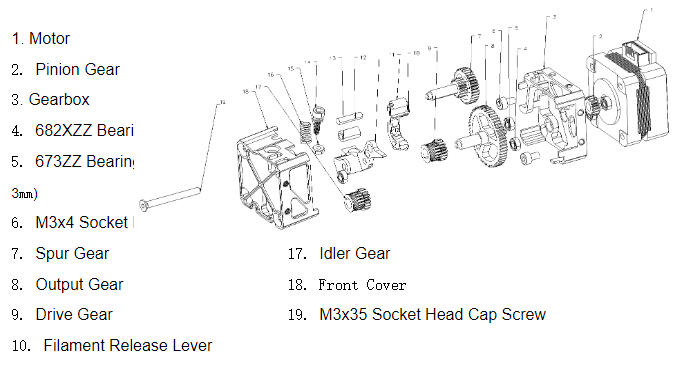
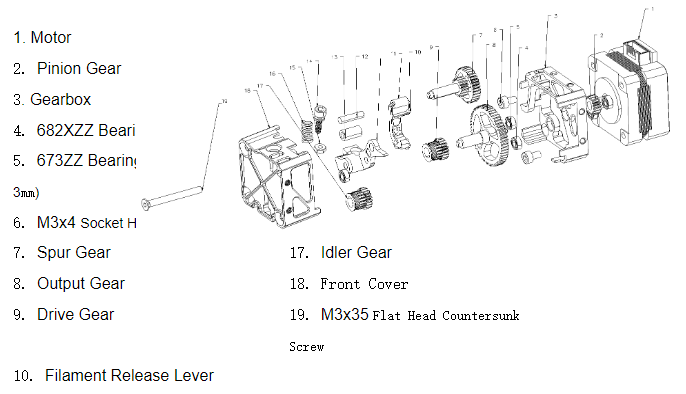
Deploying to gh-pages from @ bigtreetech/docs@27622524199451af74b1aba3dabe55d3b2305939 🚀

diff --git a/locales/zh_Hans/H2 V2X.html b/locales/zh_Hans/H2 V2X.html
@@ -3048,7 +3048,7 @@
 </table>
 <p><img src=img/H2V2X/H2V2X_Filament3.png width="600"/></p>
 <h2 id="_8"><strong>产品结构图</strong><a class="headerlink" href="#_8" title="Permanent link">&para;</a></h2>
-<p><img src=img/H2V2X/H2V2X_Filament4.png width="600"/></p>
+<p><img src=img/H2V2X/H2V2X_Filament5.png width="600"/></p>
 <h2 id="_9">相关链接<a class="headerlink" href="#_9" title="Permanent link">&para;</a></h2>
 <p>购买链接:</p>
 <p><a href="https://biqu.equipment/products/h2-v2x">https://biqu.equipment/products/h2-v2x</a></p>

diff --git a/zh/H2 V2X.html b/zh/H2 V2X.html
@@ -3157,7 +3157,7 @@
 </table>
 <p><img src=img/H2V2X/H2V2X_Filament3.png width="600"/></p>
 <h2 id="_8"><strong>产品结构图</strong><a class="headerlink" href="#_8" title="Permanent link">&para;</a></h2>
-<p><img src=img/H2V2X/H2V2X_Filament4.png width="600"/></p>
+<p><img src=img/H2V2X/H2V2X_Filament5.png width="600"/></p>
 <h2 id="_9">相关链接<a class="headerlink" href="#_9" title="Permanent link">&para;</a></h2>
 <p>购买链接:</p>
 <p><a href="https://biqu.equipment/products/h2-v2x">https://biqu.equipment/products/h2-v2x</a></p>
